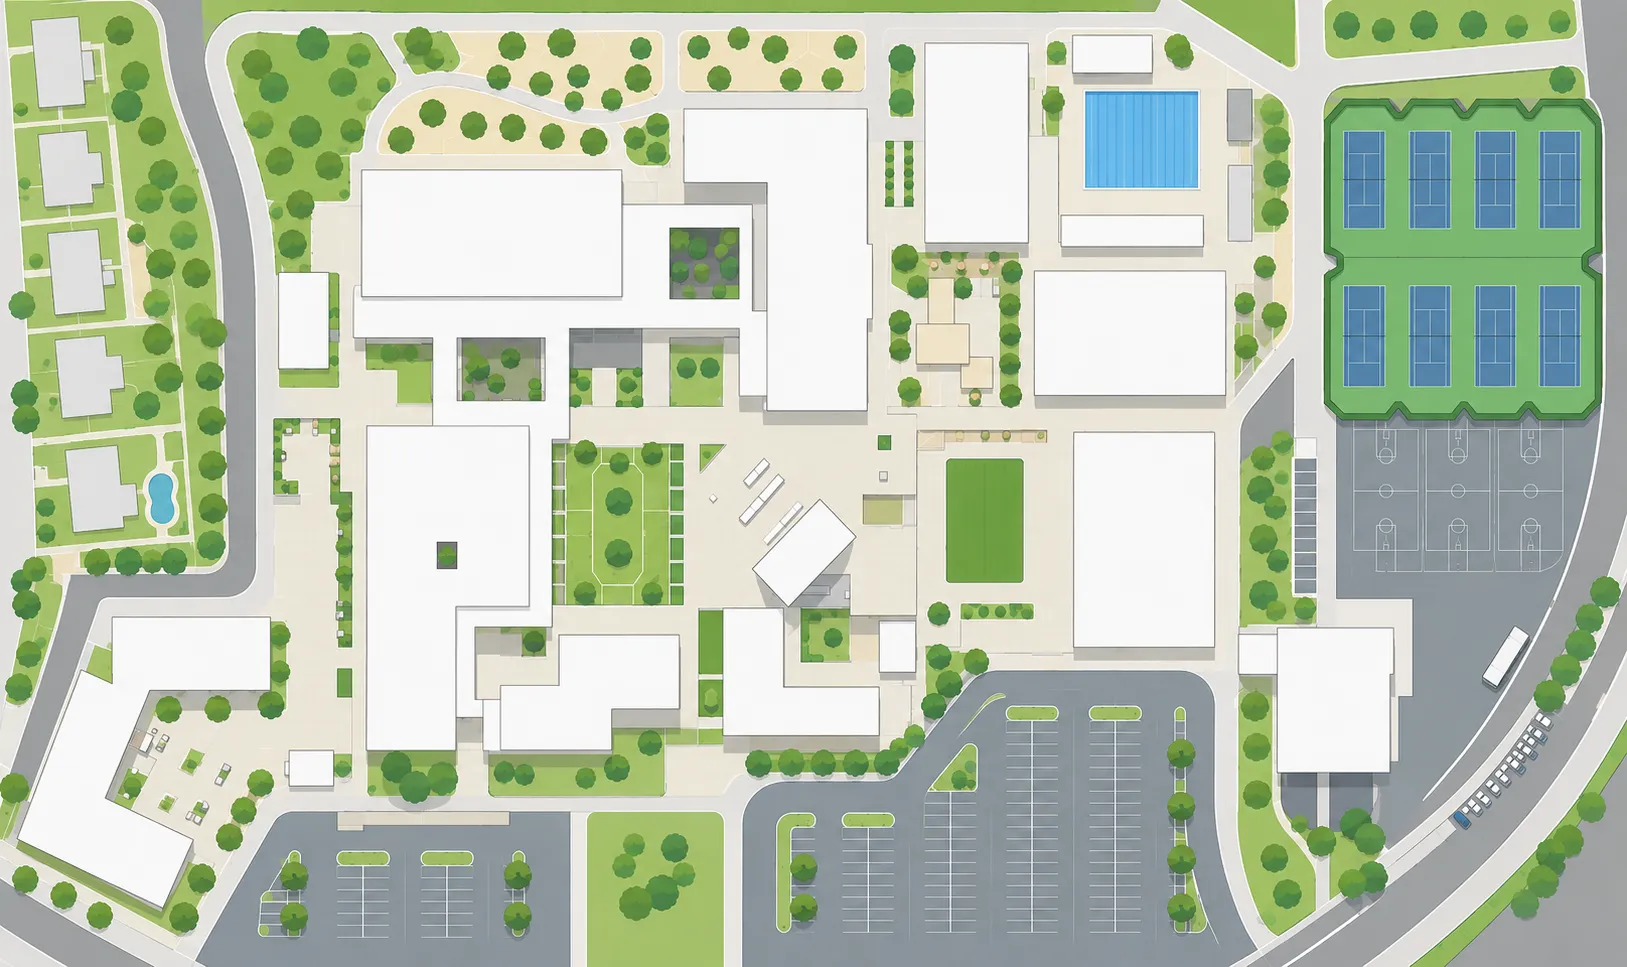
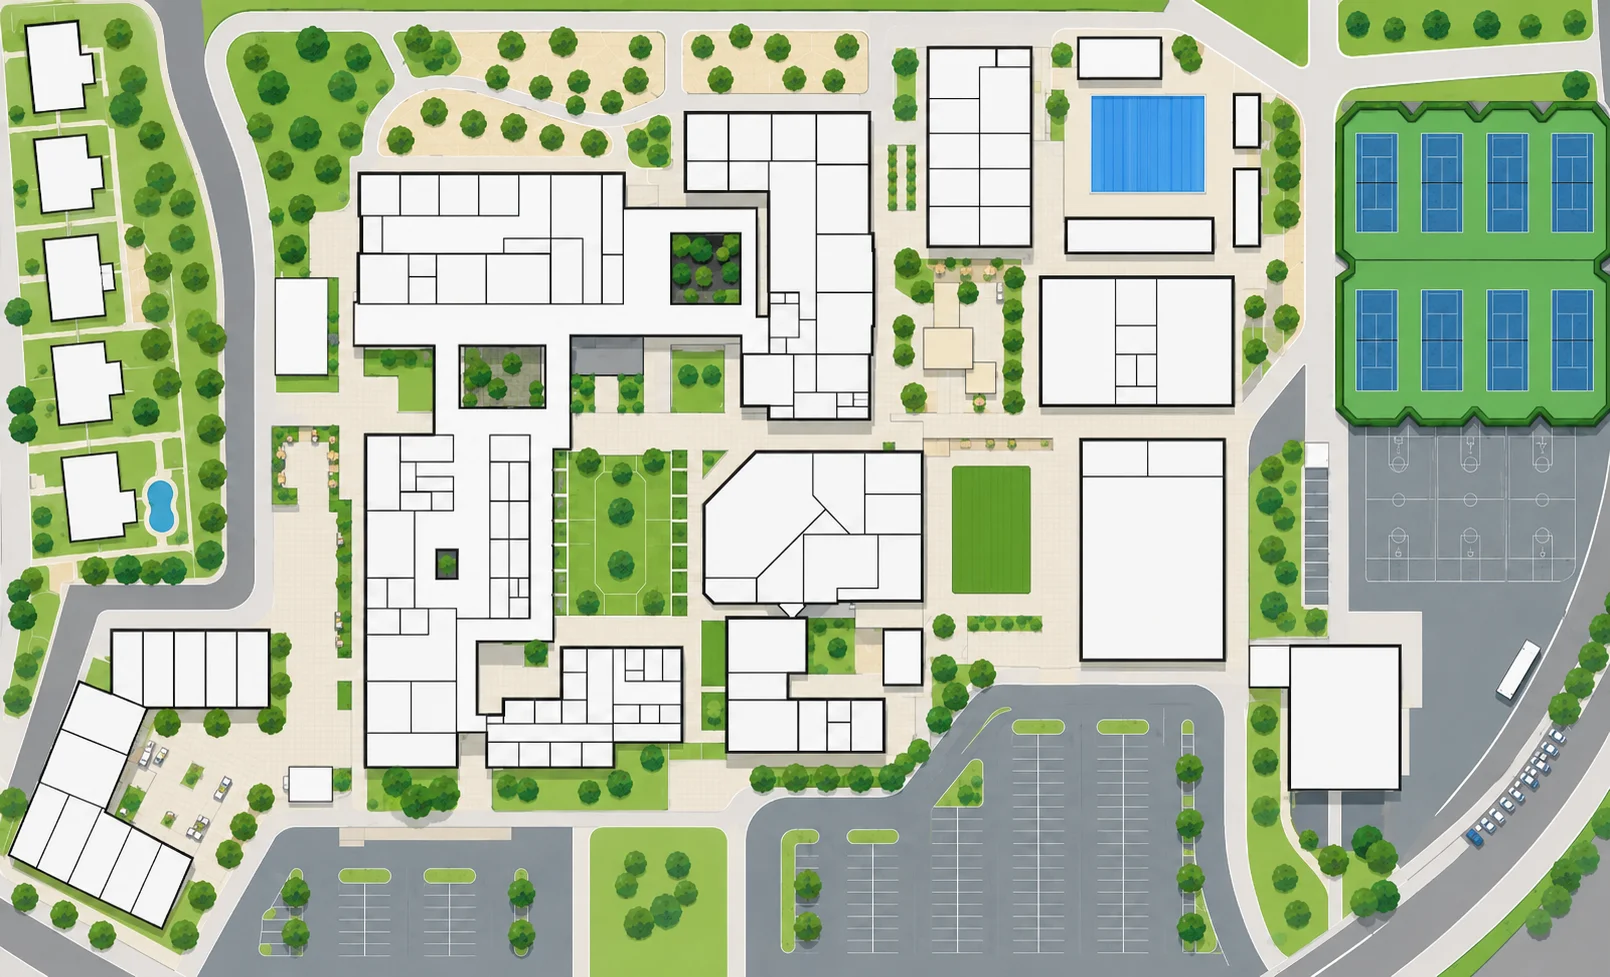
Switch to the map with baked-in room lines; SVG becomes invisible tap targets
The owner re-rendered the illustration with the traced room lines drawn into
the artwork (from the same plan as campus-upper.svg), replacing the old art
whose building shapes disagreed with the trace in places (the 300s wing's ~2°
rotation, oversized 400s/200s traces). Chamfer-fit against the new image
(1610x977): mean boundary error 0.27px globally, sub-pixel on every building
with NO per-building nudges — GROUP_ADJUST is now empty (kept as the seam for
future re-exports).

Since the artwork now draws the room boundaries, rooms render fully invisible
at rest (fill-opacity 0, no stroke) — the SVG only provides tap targets and
the hover/selected highlight.

Asset converted from the uploaded 1.9MB PNG to webp q85 (155KB), replacing
public/campus-map.webp; the upload is removed from the repo root.

https://claude.ai/code/session_01GJYJyTtRmDbwwXxax86bK7

diff --git a/src/features/map/campusGeo.ts b/src/features/map/campusGeo.ts
@@ -1,25 +1,22 @@
 /**
  * Campus map geometry + room index.
  *
- * The owner's Figma frame (campus-upper.svg, viewBox 1382×863) is a 1:1 CROP of the campus
- * illustration (campus-map.webp, 1627×967) — the untraced fringes (tennis courts, parking) lie
- * outside the frame. SVG_TO_IMAGE maps SVG coords → image pixels (image = a + s·svg); the offset
- * was fitted by chamfer-matching every building trace against the illustration's edges
- * (`scripts/fit-map.mjs`, mean boundary error ≈3px; verified per building with
+ * The illustration (campus-map.webp, 1610×977) has the traced room lines BAKED IN — it was
+ * rendered from the same plan as campus-upper.svg (viewBox 1382×863), so the invisible SVG tap
+ * targets sit exactly on the drawn walls. SVG_TO_IMAGE maps SVG coords → image pixels
+ * (image = a + s·svg); fitted by chamfer-matching every building trace against the image's edges
+ * (`scripts/fit-map.mjs`, mean boundary error ≈0.3px; verified per building with
  * `scripts/calibrate-map.mjs`). Re-run those scripts if either asset is re-exported.
  */
-export const IMAGE_SIZE = { w: 1627, h: 967 };
-export const SVG_TO_IMAGE = { ax: 11.5, sx: 1, ay: 44.8, sy: 1 };
+export const IMAGE_SIZE = { w: 1610, h: 977 };
+export const SVG_TO_IMAGE = { ax: 5.6, sx: 1.01, ay: 45.8, sy: 1.0225 };
 
 /**
- * Per-building alignment nudges (SVG units), applied as a translate on each building group at load.
- * With the fitted 1:1 transform above, every building lands on its illustrated footprint without a
- * nudge except the 600s (its trace sits ~3px right of the art). Known residual a translate can't
- * fix: the 300s rotated wing's angle differs ~2° from the art (centered).
+ * Per-building alignment nudges (SVG units), applied as a translate on each building group at
+ * load. Empty since the room lines were baked into the illustration (every building fits the art
+ * sub-pixel with the global transform alone); kept as the seam for calibrating a future re-export.
  */
-export const GROUP_ADJUST: Record<string, { dx: number; dy: number }> = {
-  'bldg600-upper': { dx: -3, dy: 0 },
-};
+export const GROUP_ADJUST: Record<string, { dx: number; dy: number }> = {};
 
 export const MAP_SVG_URL = `${import.meta.env.BASE_URL}campus-upper.svg`;
 export const MAP_IMAGE_URL = `${import.meta.env.BASE_URL}campus-map.webp`;

diff --git a/src/features/map/MapScreen.css b/src/features/map/MapScreen.css
@@ -57,15 +57,16 @@
 .campus-svg {
   pointer-events: none;
 }
+/* The illustration has the room lines baked in, so rooms are invisible at rest — the SVG only
+   provides the tap targets and paints the hover/selected highlight. */
 .campus-svg .campus-room {
-  pointer-events: all; /* tappable even with a near-transparent fill */
+  pointer-events: all; /* tappable even with a fully transparent fill */
   cursor: pointer;
-  opacity: 1; /* override any per-shape opacity from the export so rooms look uniform */
+  opacity: 1; /* override any per-shape opacity from the export so highlights look uniform */
   fill: #582c83;
-  fill-opacity: 0.08; /* faint tint so rooms read as tappable without hiding the artwork */
-  stroke: rgba(88, 44, 131, 0.45);
-  stroke-width: 1;
-  vector-effect: non-scaling-stroke; /* crisp 1px outline at any zoom */
+  fill-opacity: 0;
+  stroke: none;
+  vector-effect: non-scaling-stroke; /* crisp highlight outline at any zoom */
   transition:
     fill-opacity 0.12s ease,
     stroke 0.12s ease;